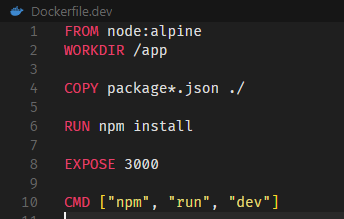
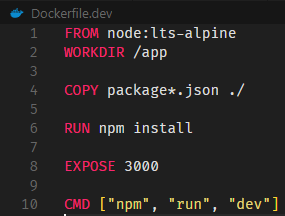
Added Examples and clearer explaination

diff --git a/Week 13 - Containerization with Docker/README.md b/Week 13 - Containerization with Docker/README.md
@@ -5,7 +5,7 @@
 ## What is Docker
 ![docker.png](./image/docker.png)
 
-**Docker** เป็นแพลตฟอร์มที่ใช้สำหรับการสร้าง (build), จัดการ (manage), และรัน (run) แอปพลิเคชันในรูปแบบของ "คอนเทนเนอร์" (Container) คอนเทนเนอร์คือหน่วยที่รวมโค้ดของแอป, ไลบรารี, การตั้งค่า และทุกอย่างที่จำเป็นสำหรับการรันแอปนั้นเข้าไว้ด้วยกัน โดยทำงานบนระบบปฏิบัติการ (OS) เดียวกับเครื่องแม่ (host) ทำให้เบาและเร็วกว่าเครื่องเสมือน (Virtual Machine หรือ VM)
+**Docker** เป็นแพลตฟอร์มที่ใช้สำหรับการสร้าง (build), จัดการ (manage), และรัน (run) แอปพลิเคชันในรูปแบบของ " container" (Container)  containerคือหน่วยที่รวมโค้ดของแอป, ไลบรารี, การตั้งค่า และทุกอย่างที่จำเป็นสำหรับการรันแอปนั้นเข้าไว้ด้วยกัน โดยทำงานบนระบบปฏิบัติการ (OS) เดียวกับเครื่องแม่ (host) ทำให้เบาและเร็วกว่าเครื่องเสมือน (Virtual Machine หรือ VM)
 
 เปรียบเทียบง่าย ๆ: Docker เหมือนกล่องที่ใส่ทุกอย่างที่แอปต้องการ (โค้ด, เครื่องมือ, การตั้งค่า) แล้วยกไปรันที่ไหนก็ได้ โดยไม่ต้องกังวลว่าเครื่องนั้นจะต่างกัน
 
@@ -50,13 +50,13 @@
 
 #### Check Node.js Version
 ```bash
-  node -v
+node -v
 ```
 ![](./image/node-v.png/)
 
 #### Check NPM Version
 ```bash
-  npm -v
+npm -v
 ```
 ![](./image/npm-v.png/)
 
@@ -80,27 +80,7 @@ npm i express@^4 ejs
 ![alt text](./image/dir-structure.png)
 
 #### index.js
-```javascript
-const express = require("express");
-const app = express();
-const port = 3000;
-
-app.set("view engine", "ejs");
-
-// index page
-app.get("/", (req, res) => {
-  res.send("Hello World!");
-});
-
-// dynamic page
-app.get("/dynamic", (req, res) => {
-  res.render("dynamic");
-});
-
-app.listen(port, () => {
-  console.log(`Example app listening at http://localhost:${port}`);
-});
-```
+![alt text](./image/init-index-code.png)
 
 #### dynamic.ejs
 ```html
@@ -151,12 +131,12 @@ npm run start
 ![](./image/create-dockerfile.png/)
 
 #### คำสั้งใน Dockerfile นี่คืออะไร
-*   **`FROM node:alpine`**: **ตั้งต้นจาก Base Image:**  ใช้ Docker Image `node:alpine` เป็น Base ซึ่งเป็น Image ที่มี Node.js และ npm ติดตั้งไว้แล้ว และใช้ระบบปฏิบัติการ Alpine Linux ที่มีขนาดเล็ก
+*   **`FROM node:lts-alpin`**: **ตั้งต้นจาก Base Image:**  ใช้ Docker Image `node:lts-alpin` เป็น Base ซึ่งเป็น Image ที่มี Node.js (เวอร์ชัน LTS - Long Term Support) และ npm ติดตั้งไว้แล้ว และใช้ระบบปฏิบัติการ Alpine Linux ที่มีขนาดเล็ก
 *   **`WORKDIR /app`**: **กำหนด Working Directory:**  เปลี่ยน Directory ทำงานปัจจุบันภายใน Container ไปที่ `/app`  คำสั่งต่อจากนี้จะทำงานใน Directory นี้ (เปรียบเสมือนการ `cd /app`)
 *   **`COPY . .`**: **คัดลอกไฟล์ทั้งหมด:**  คัดลอกไฟล์และโฟลเดอร์ทั้งหมดจาก **current directory** (ที่อยู่ของ Dockerfile) บนเครื่อง Host ไปยัง **`/app`** directory ใน Container
 *   **`RUN npm install`**: **ติดตั้ง Dependencies:**  สั่งรันคำสั่ง `npm install` ภายใน Container เพื่อติดตั้ง Node.js dependencies ที่ระบุไว้ใน `package.json` ของโปรเจกต์
 *   **`EXPOSE 3000`**: **เปิด Port:**  ประกาศว่า Container จะ Listen บน Port `3000` (เป็นการบอก Docker เฉยๆ ไม่ได้ Publish Port จริงๆ)
-*   **`CMD ["npm", "run", "start"]`**: **คำสั่งเริ่มต้น Container:**  กำหนดคำสั่งที่จะรันเมื่อ Container เริ่มทำงาน ในที่นี้คือ `npm run start` ซึ่งมักจะใช้เพื่อสั่งรันแอปพลิเคชัน Node.js (โดย Script `start` ต้องถูกกำหนดไว้ใน `package.json`)
+*   **`CMD ["npm", "run", "start"]`**: **คำสั่งเริ่มต้น Container:**  กำหนดคำสั่งที่จะรันเมื่อ Container เริ่มทำงาน (โดย Script `start` ถูกกำหนดไว้ใน `package.json` เป็น `node index.js`)
 
 
 
@@ -164,116 +144,156 @@ npm run start
 
 ![](./image/create-dockerignore.png/)
 
-ทำงานเหมือน `.gitignore` โดยในที่นี่ใส่
-#### .dockerignore
+ทำงานเหมือน `.gitignore` โดยจะไม่ทำการคัดลอกไฟล์เข้าไปใน Container ตอน build โดยในที่นี่ใส่
 ```
 node_modules/
 ```
-เพื่อไม่ให้คัดลอก node_modules ไปยังคอนเทนเนอร์
+เพื่อไม่ให้คัดลอก node_modules ไปยัง container เพราะ node_modules มักสร้างมาเฉพาะ OS/architecture ของเครื่อง host ซึ่งอาจไม่ตรงกับใน container และทำให้เกิดปัญหา runtime ได้
 
 ### 7. Build Docker Image
 
 > [!WARNING]
-> หากพบ Error แบบนี้ กรุณาตรวจสอบว่าเปิด Docker Desktop หรือยัง แล้วลองใหม่ <br/>
+> หากพบ Error แบบนี้ กรุณาตรวจสอบว่าเปิด Docker Desktop หรือยัง แล้วลองใหม่ <br/><br/>
 ![alt text](./image/check-docker-engine.png)
 
-
+ใช้คำสั้งนี่เพื่อทำการ build docker image แรกของคุณ<br/><br/>
 ![](./image/build-docker-image.png/)
 ```
 docker build -t [image-name]:[tag-name] .
 ```
 
-สร้าง Docker image จาก Dockerfile
-
-`-t myapp:v1` ตั้งชื่อ image ว่า myapp และเวอร์ชัน v1
-
-`.` บอกให้ใช้ไฟล์ในโฟลเดอร์ปัจจุบัน (ที่มี Dockerfile)<br/><br/>
+- `-t myapp:v1` ตั้งชื่อ image ว่า myapp และเวอร์ชัน (tag) เป็น v1
+  - ถ้าหากไม่ระบุ tag ไว้ tag จะถูกตั้งเป็น `latest` โดยอัตโนมัติ
+- `.` บอกให้ใช้ไฟล์ในโฟลเดอร์ปัจจุบัน (ที่มี Dockerfile)<br/><br/>
 ![](./image/build-docker-image2.png/)
 
-เช็คว่า Image ถูกสร้างขึ้นมาหรือยัง<br/><br/>
-![](./image/docker-image.png/)
+โดยสามารถดู logs การ build ได้จาก Docker Desktop เช่นกัน<br/><br/>
+![alt text](./image/docker-desktop-build.png)
 
-#### or
+เช็คว่า Image ถูกสร้างขึ้นมาหรือยัง ด้วยคำสั่ง `docker images` หรือ `docker image ls`<br/><br/>
+![](./image/docker-image.png/)<br/>
 
+หรือดูจาก Docker Desktop ได้ในหน้านี้<br/><br/>
 ![](./image/docker-image2.png/)
 
 ### 8. ทำการ Run Docker Container
 ![](./image/run-test.png/)
 
-#### อธิบาย:
-`
+
+สร้างและรัน containerจาก image ที่เราสร้างไว้
+```
 docker run --name [name] [image-name]
-`
-สร้างและรันคอนเทนเนอร์จาก image ที่เราสร้างไว้
+```
+
+> [!WARNING]
+> หากทำการ run โดยใช้ชื่อซ้ำจะไม่สามารถ run ได้ ให้ stop container ที่ชื่อซ้ำแล้วลองใหม่ หรือตั้งชื่ออื่นแทน<br/><br/> ![](./image/docker-run-duplicate-name.PNG)
+
 
 ![](./image/error.png/)
-หน้าเว็บไม่สามารถเข้าถึงได้เพราะเรายังไม่ได้เปิดพอร์ต 3000 ในคอนเทนเนอร์
+พบว่าหน้าเว็บไม่สามารถเข้าถึงได้เพราะเรายังไม่ได้เปิดพอร์ต 3000 ใน container ให้ Host เข้าถึงได้
 
 ### 9. ทำการ Publish Port เพื่อให้เข้าถึงจากภายนอกได้
 
 ![](./image/expose-port.png/)
 
+> [!NOTE]
+> ถ้าพบ Error นี้ตอน run container ให้ตรวจสอบว่ามี Container หรือ Process อื่นกำลังใช้ Port 3000 อยู่ไหม ถ้ามีให้ทำการปิดหรือถ้าหาไม่เจอ เปลี่ยน Publish Port จาก 3000 เป็น 3001 ด้วย `-p 3001:3000` <br/><br/> ![alt text](./image/docker-port-allocated.png)
+
+#### Port Mapping Example
+ตัวอย่างภาพนี้คือการรัน Webserver สอง Container ที่ใช้ Port เดียวกันคือ 80 (Container Port) แต่ทำการ Publish Port ต่างกันก็คือ 8080 และ 8070 (Host Port)<br/><br/>
+![](https://k21academy.com/wp-content/uploads/2020/11/portmapping.drawio.png)
+
+โดยคำสั้งนี้บอกให้เปิดพอร์ต 3000 ในเครื่องเรา และเชื่อมกับพอร์ต 3000 ใน container
+```
+docker run -p [host-port]:[container-port] [image-name-with-tag]
+```
+#### Index Page
 ![](./image/hello-world.png/)<br/>
+#### Dynamic Page
 ![alt text](./image/hello-ejs.png)
 
-`docker run -p [host-port]:[container-port] [image-name-with-tag]` บอกให้เปิดพอร์ต 3000 ในเครื่องเรา และเชื่อมกับพอร์ต 3000 ในคอนเทนเนอร์
 
 ### 10. แสดง Container ที่กำลังทำงานอยู่
 
 ![](./image/docker-ps-a.png/)
 
-`docker ps` แสดง Container ที่กำลังทำงานอยู่
+- `docker ps` แสดง Container ที่กำลังทำงานอยู่
+- `docker ps -a` หรือ `docker ps --all` แสดง Container ทั้งหมด ทั้งที่ปิดและทำงานอยู่
 
-`docker ps -a` แสดง Container ทั้งหมด
+หรือสามารถดูจาก Docker Desktop ได้ในหน้านี้<br/><br/>
+![alt text](./image/docker-desktop-ps.png)
 
-### 10. เปลี่ยน index.js and Rebuild Docker Image
+### 10. แก้ไข index.js และทำการ rebuild Docker Image
 
 ![](./image/rebuild-image.png/)
 
 ### 11. Stop Container
-
+หยุด Container ที่กำลังทำงานอยู่<br/><br/>
 ![](./image/stop-container.png/)
-
-`docker stop [container-name หรือ container id]` หยุด Container ที่กำลังทำงานอยู่
+```
+docker stop [container-name หรือ container-id]
+```
 
 ### 12. Remove Container
-
+ลบ Container ที่**หยุด**ทำงานอยู่<br/><br/>
 ![](./image/remove-container.png/)
 
-`docker rm [container-name]` ลบ Container ที่หยุดทำงานอยู่
+```
+docker rm [container-name หรือ container-id]
+```
 
-### 13. Run Docker Container with New Image
+> [!TIP]
+> ถ้าไม่ทำการ stop container ก่อนจะไม่สามารถปิดได้
+
+### 13. Run Docker Container ด้วย Image ใหม่
 
 ![](./image/run-new-image.png/)
 ![](./image/chill-guy.png/)
 
 ### 14. Mount Volume
+คือการเชื่อมต่อ directory หรือ file จากเครื่อง host (หรือ volume อื่น) เข้าไปใน container ทำให้ container เข้าถึงและแก้ไขข้อมูลบน host ได้โดยตรง และข้อมูลยังคงอยู่แม้ container จะถูกลบไปแล้ว ใช้สำหรับ persist data, share code, และ development workflows.
+
+Docker Mount Volume มี 3 ประเภทหลัก:
+1. **Volumes (Named Volumes)**: Docker จัดการทั้งหมด, เหมาะเก็บข้อมูลถาวร, แชร์ข้าม containers ง่าย
+    ```
+    docker run --mount type=volume,src=<volume-name>,dst=<mount-path>
+    docker run --volume <volume-name>:<mount-path>
+    ```
+2. **Bind mounts**: เชื่อม directory/file จาก Host ตรงๆ เข้า Container, เหมาะพัฒนา, แต่ portability น้อยกว่า
+    ```
+    docker run --mount type=bind,src=<host-path>,dst=<container-path>
+    docker run --volume <host-path>:<container-path>
+    ```
+3. **tmpfs mounts**: ข้อมูลอยู่ใน RAM ของ Host, ไม่ persist, เร็ว, เหมาะข้อมูล sensitive หรือ cache
+
+#### โดยใน Lab นีี้เราจะใช้ Bind Mount ในการ Mount ดังนี้
 ```
 docker run -v ${pwd}:[path-WORKDIR] -v ${pwd}:[path-WORKDIR]/node_modules
 ```
-
-`$(pwd)` หรือ `${pwd}` คือคำสั่งที่ใช้ในการแสดงตำแหน่งปัจจุบันของไฟล์ หรือ Working Directory ของเรา
-
-`[path-WORKDIR]` คือตำแหน่งที่เราต้องการ mount ไปที่ Container
+- `$(pwd)` หรือ `${pwd}` คือคำสั่งที่ใช้ในการแสดงตำแหน่งปัจจุบันของไฟล์ หรือ Working Directory ของเรา
+- `[path-WORKDIR]` คือตำแหน่งที่เราต้องการ mount ไปที่ Container ซึงจากที่เรากำหนดไว้ใน Dockerfile ก่อนหน้า จะเป็น `/app`
 
 ![](./image/mount-volume.png/)
 
 
 > [!IMPORTANT]
-> ต้องใช้ PowerShell เท่านั้น Command Prompt ใช้งานไม่ได้
+> ต้องใช้ PowerShell เท่านั้น Command Prompt จะไม่สามารถใช้งานไม่ได้ และในบางกรณีคำสั้งที่ใช้ `$(<command สักอย่าง>)` จะใช้ไม่ได้ ให้ลอง `${<command สักอย่าง>}` แทน
 
 ### 15. คำสั่งที่ใช้ในการเข้าไปทำงานใน Container (`docker exec`)
-สามารถสร้าง shell ใน Continer แบบ Interactive `-it` เพื่อไปแก้ไขหรือทำงานใน Container โดยตรง<br/>
+สามารถสร้าง shell ใน Continer แบบ Interactive `-it` เพื่อไปแก้ไขหรือทำงานใน Container โดยตรง<br/><br/>
 ![](./image/enter-container.png/)
 <br/>
-`docker exec -it [container-name หรือ container id] sh` เข้าไปทำงานใน Container ด้วย shell `sh`
+เข้าไปทำงานใน Container ด้วย shell `sh`
+```
+docker exec -it [container-name หรือ container id] /bin/sh
+```
 
-### 16. ทำการ install nodemon and add script to package.json
+### 16. ทำการติดตั้ง `nodemon` and เพิ่ม script ไปใน `package.json`
 ```bash
 npm i --save-dev nodemon
 ```
 > [!IMPORTANT]
-> อย่าลืม Argument `-L` หรือ `--legacy-watch` เพื่อใช้เทคนิค [Chokidar's polling](https://github.com/paulmillr/chokidar) ให้สามารถตรวจจับการเปลี่ยนแปลงใน Mounted Volume ได้
+> อย่าลืม Option `-L` หรือ `--legacy-watch` เพื่อใช้เทคนิค [Chokidar's polling](https://github.com/paulmillr/chokidar) ให้สามารถตรวจจับการเปลี่ยนแปลงใน Mounted Volume ได้
 
 package.json
 ```json
@@ -283,12 +303,26 @@ package.json
 ![](./image/install-nodemon.png/)
 
 ### 17. สร้าง Dockerfile.dev
+Dockerfile นี้สำหรับ **dev**, เน้น build image เร็วและ **hot-reloading** <br/>
+
 ![](./image/create-dockerfile-dev.png/)
 
-### 18. Build Docker Image with Dockerfile.dev
+**อธิบาย**
+1. **`FROM node:lts-alpine`**: ใช้ Node.js base image alpine lts (เล็ก, เร็ว, เสถียร)
+2. **`WORKDIR /app`**:  กำหนด `/app` เป็นที่ Working Directory
+3. **`COPY package*.json ./`**: **Copy แค่ `package.json` และ lock file** เพื่อติดตั้ง dependencies ก่อน
+4. **`RUN npm install`**: ติดตั้ง dependencies
+5. **`EXPOSE 3000`**: บอกว่าใช้ port 3000
+6. **`CMD ["npm", "run", "dev"]`**: เริ่ม dev server (`npm run dev`, โดยได้กำหนดว่าใช้ `nodemon` ใน `package.json`)
+
+> [!IMPORTANT]
+> **ไม่ได้ `COPY . .`** เพราะจะใช้ **Bind Mount** แทน เพื่อ mount โฟลเดอร์ source code จากเครื่อง host เข้า container **ทำให้แก้ไข code แล้ว container เห็นผลทันที (hot-reloading)**
+
+### 18. Build Docker Image ด้วย Dockerfile.dev
+โดยขั้นตอนการ Build เหมือนปกติ แต่ในกรณีนี้เราจะระบุ Dockerfile ไฟล์ที่ต้องการใช้ build ด้วย Option `-f` หรือ `--file`<br/><br/>
 ![](./image/build-dockerfile-dev.png)
 
-### 19. Stop All Container And Delete All Container
+### 19. Stop Container ทั้งหมดและ Delete Container ทั้งหมด
 ![](./image/stop-all-container.png/)
 
 ```bash
@@ -296,7 +330,53 @@ docker stop $(docker ps -aq)
 docker rm $(docker ps -aq)
 ```
 
-### 20. Run Docker Container with myapp:v3 แล้วลองแก้ไขไฟล์ index.js แล้วสักเกตุการเปลี่ยนแปลงที่ nodemon ใน docker container
+### 20. Run Docker Container ด้วย `myapp:v3`
+แล้วลองแก้ไขไฟล์ index.js แล้วสังเกตุการเปลี่ยนแปลงที่ nodemon ใน docker  container โดยในข้อนี้ Publish Port 8000 และสร้าง Bind Mount กับ Folder Source Code<br/><br/>
 ![](./image/run-myapp-v3.png/)
 
 ![](./image/chill-guy-!!!!!!.png/)
+
+#### หากทำการ Run แล้ว nodemon crash แบบนี้
+![alt text](./image/docker-improper-mount.png)
+ให้ตรวจสอบว่าทำการ Mount Volume หรือยัง โดยจากภาพนี้สังเกตุว่ายังไม่ได้ทำการ Mount
+## Further Readings
+- **Multi-stage Build**<br/>
+  คือ การสร้าง image โดยใช้ Dockerfile เดียวแต่แบ่งเป็นหลาย "stage" แต่ละ stage เริ่มต้นจาก FROM image ใหม่ Stage แรกใช้ build app และ stage สุดท้าย copy เฉพาะ artifacts ที่จำเป็น ทำให้ image สุดท้ายเล็กลง, สะอาดขึ้น และปลอดภัยขึ้น เพราะไม่ต้องมี build tools ที่ไม่จำเป็นใน runtime image<br/>**Link**: 
+  [https://docs.docker.com/build/building/multi-stage/](https://docs.docker.com/build/building/multi-stage/)
+
+  ตัวอย่างที่ใช้จริงใน Production: เว็บ [ctf.it.kmitl.ac.th](https://ctf.it.kmitl.ac.th) ใช้ [Nuxt 3](https://nuxt.com/) (ตัดข้อมูล Sensitive ออก)
+  ```
+  FROM node:22-alpine AS builder                                                               
+
+  ENV PNPM_HOME="/pnpm"
+  ENV PATH="$PNPM_HOME:$PATH"
+  RUN corepack enable
+
+  # Set production environment for build
+  ENV NODE_ENV=production
+
+  WORKDIR /app
+  COPY package.json pnpm-lock.yaml ./
+
+  # Install ALL dependencies (including devDependencies)
+  RUN --mount=type=cache,id=pnpm,target=/pnpm/store pnpm install --frozen-lockfile --prod=false
+
+  COPY . .
+
+  RUN pnpm build
+
+  FROM node:22-alpine
+
+  RUN apk add --no-cache tzdata
+
+  ENV TZ=Asia/Bangkok
+  ENV NODE_ENV=production
+
+
+  COPY --from=builder /app/.output ./.output
+  COPY --from=builder /app/node_modules ./node_modules
+  COPY --from=builder /app/package.json ./package.json
+
+  EXPOSE 3000
+  CMD ["node", "./.output/server/index.mjs"]
+  ```
